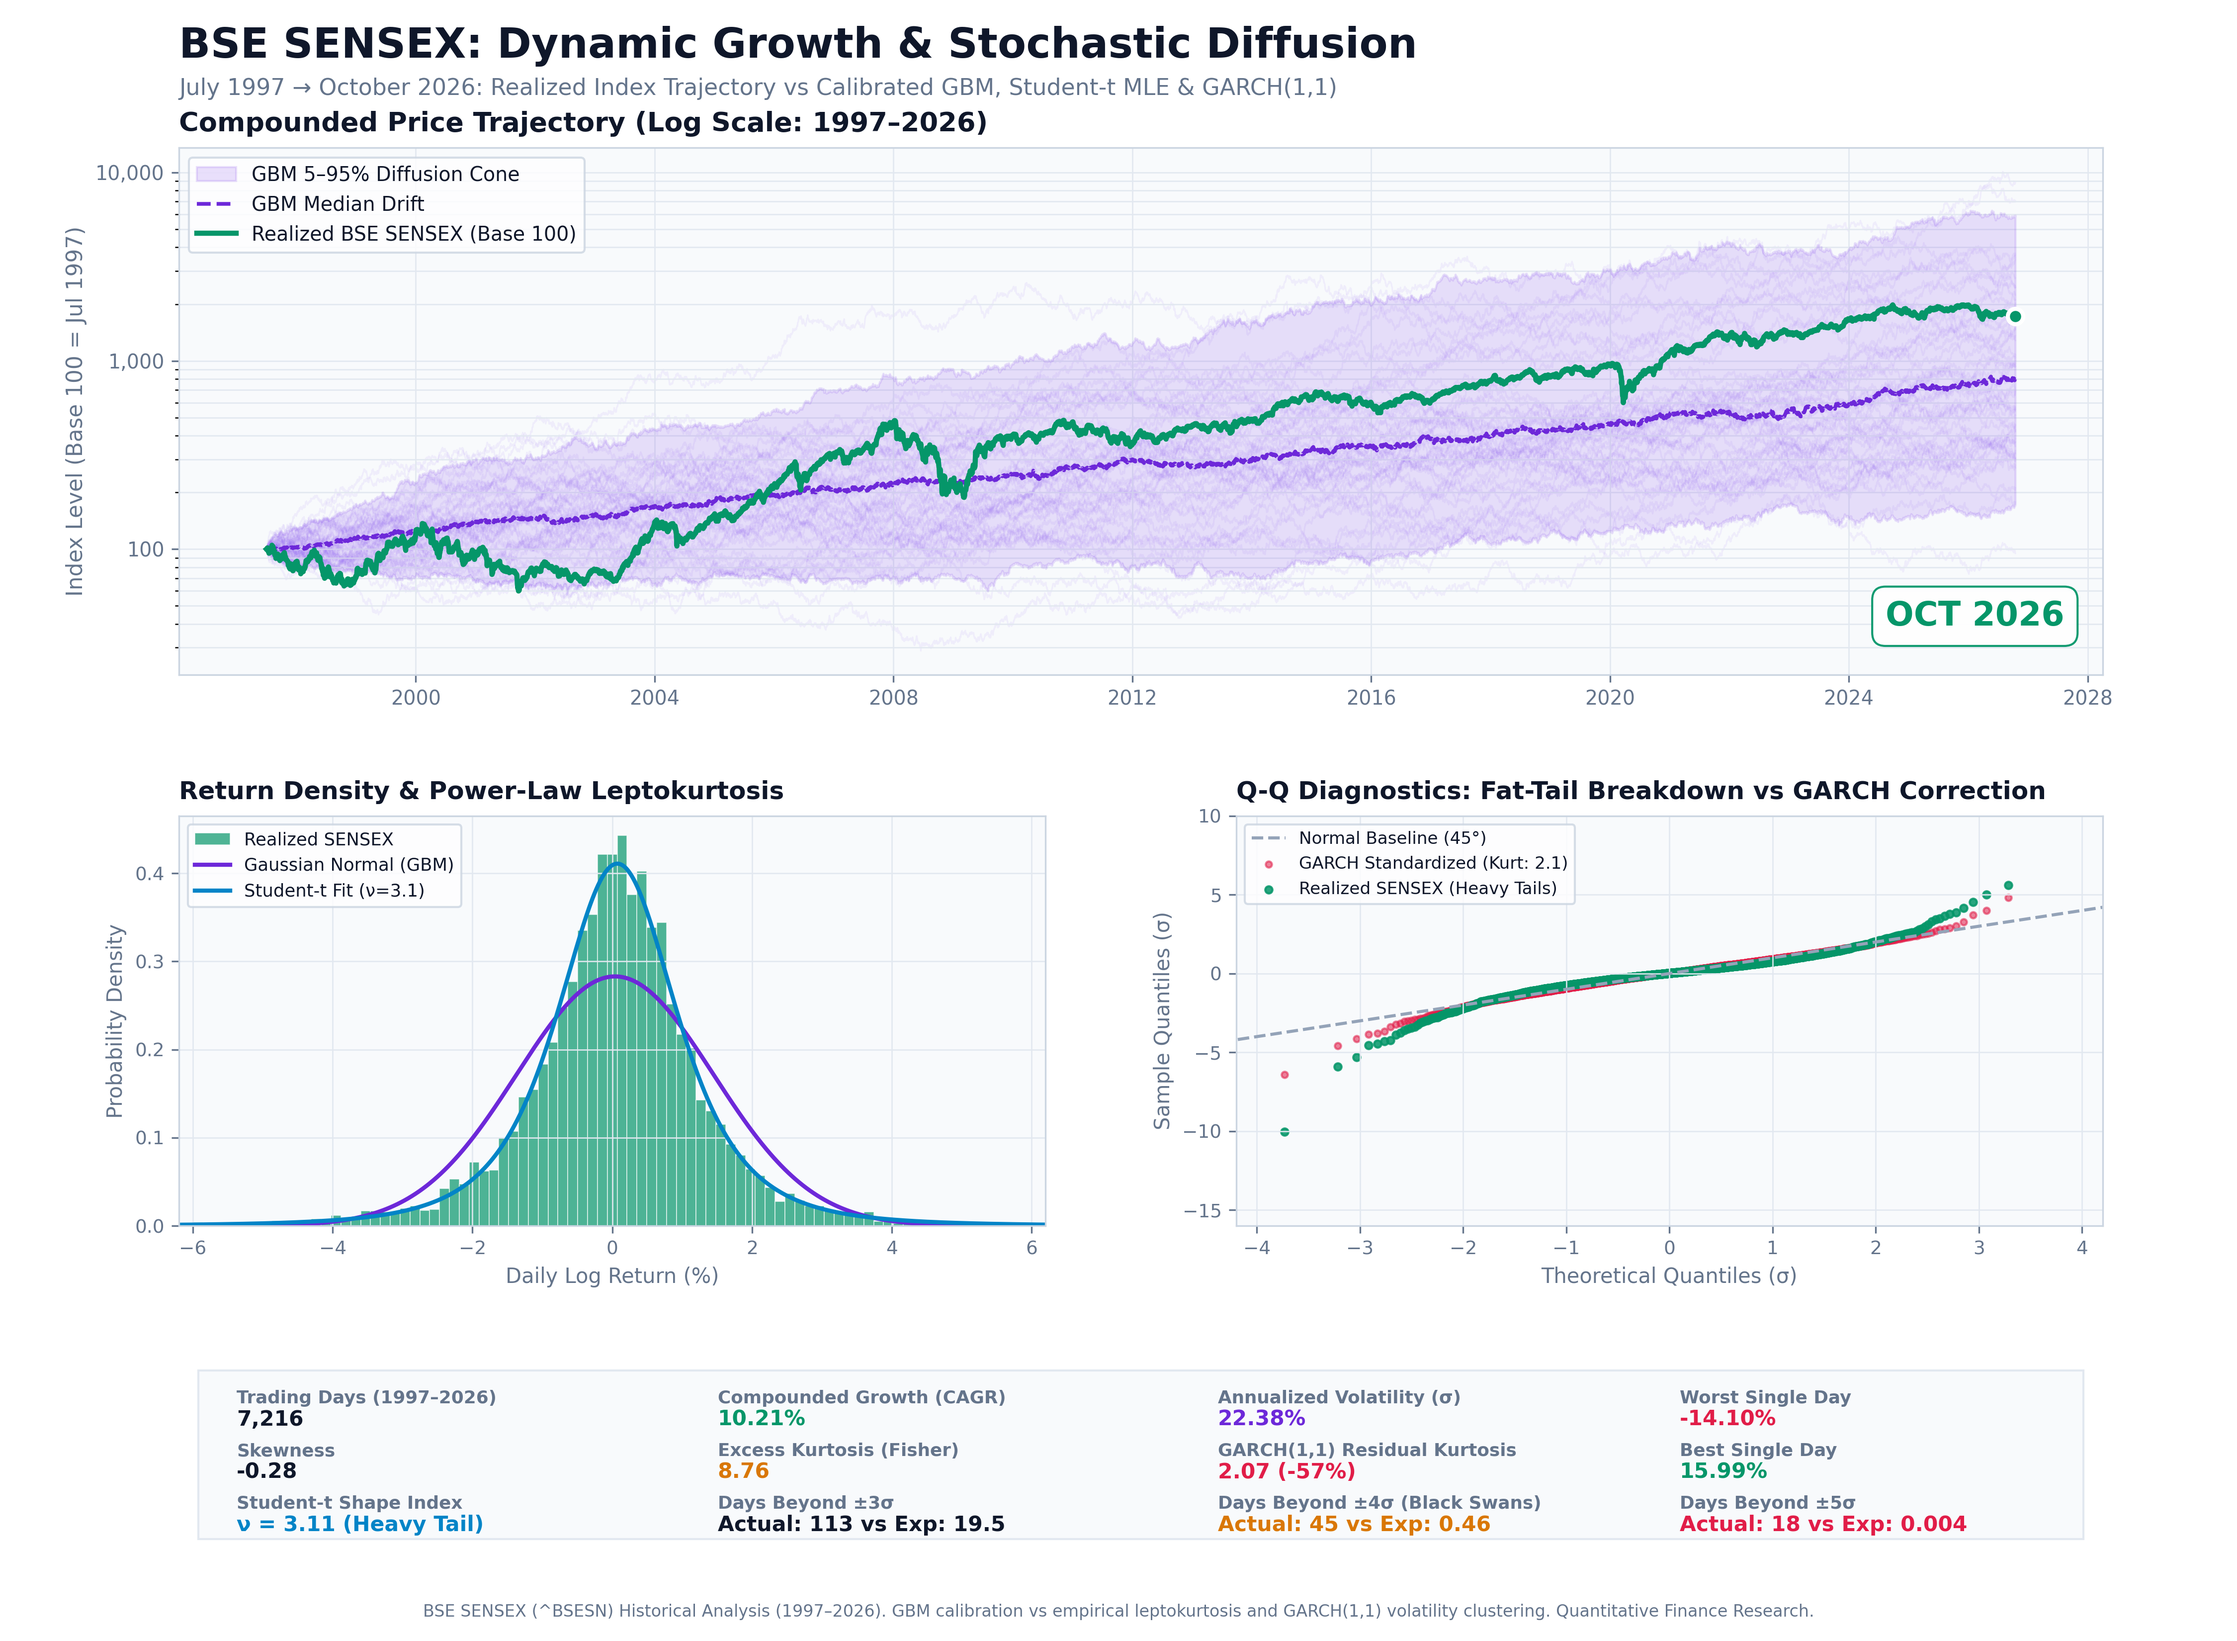
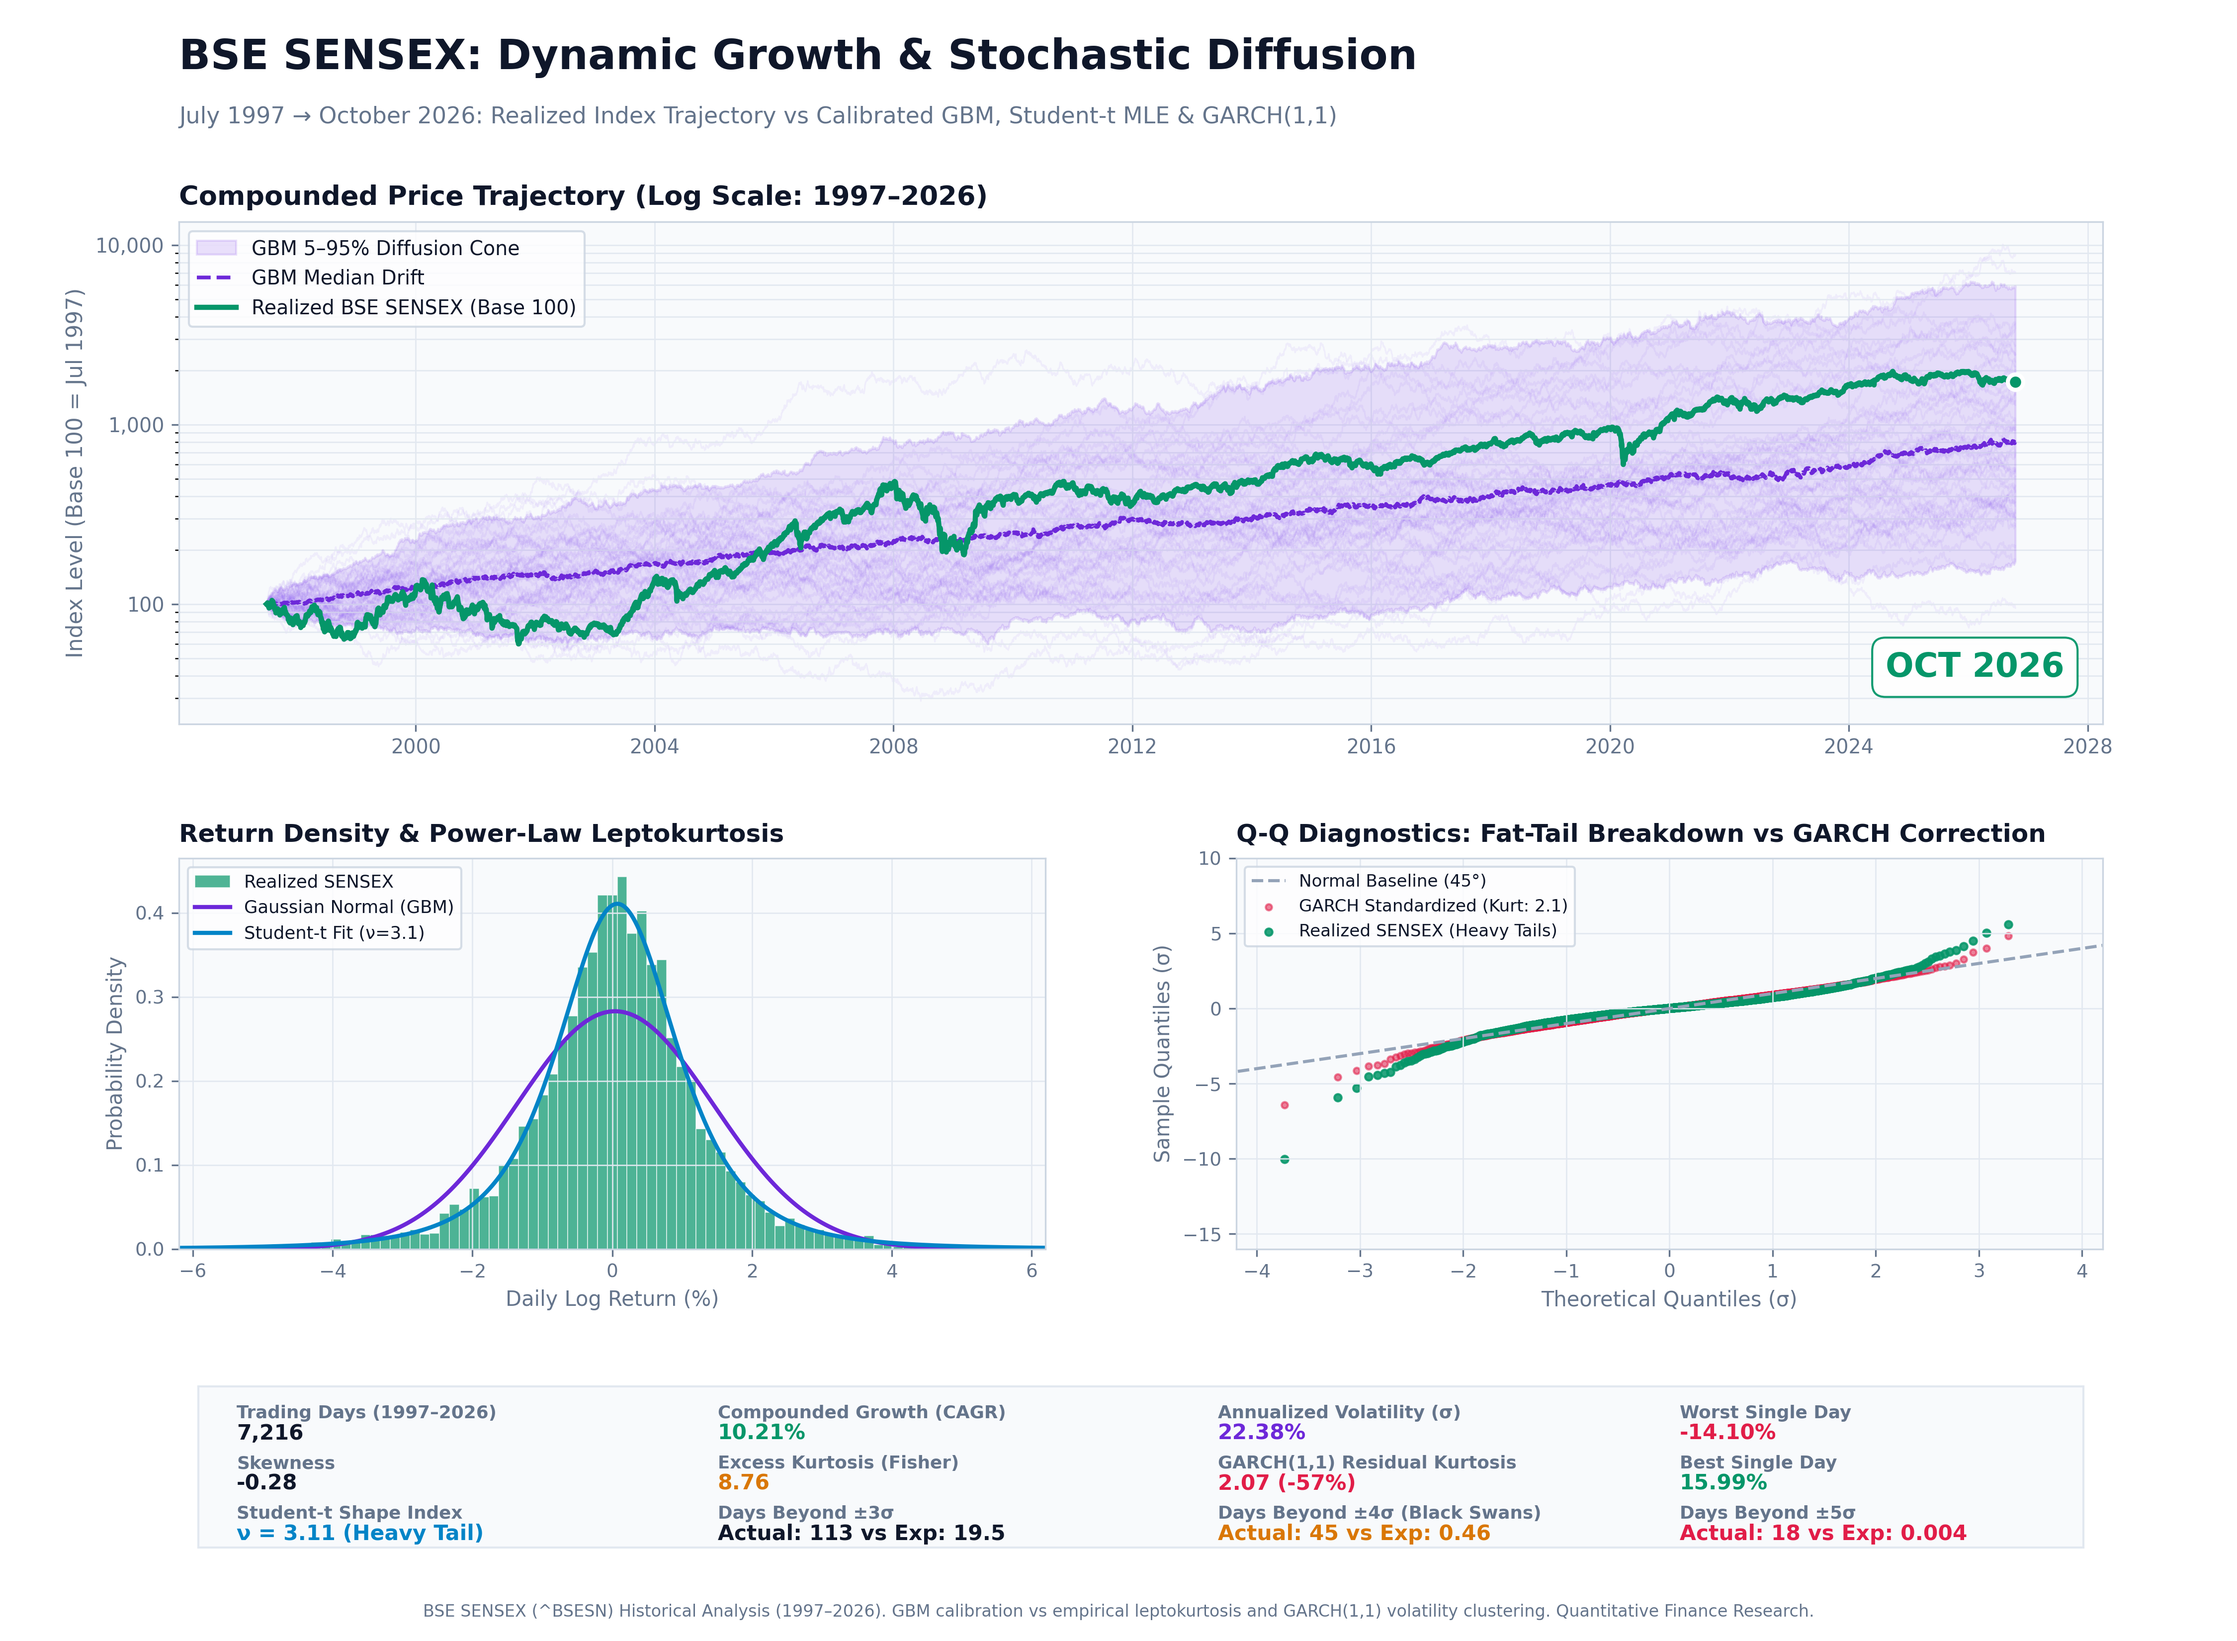
Fix text overlapping between subtitle and subplot title; increase vertical breathing room

diff --git a/generate_animation.py b/generate_animation.py
@@ -61,17 +61,17 @@ def generate_monthly_growth_gif(
         item = timeline[m_idx]
         cur_month_str = item['month']
         
-        fig = plt.figure(figsize=(14, 9), facecolor=c_bg)
+        fig = plt.figure(figsize=(14, 9.2), facecolor=c_bg)
         gs = gridspec.GridSpec(
             nrows=3, ncols=2,
-            height_ratios=[1.4, 0.95, 0.45],
-            hspace=0.35, wspace=0.22,
-            left=0.08, right=0.94, top=0.92, bottom=0.06
+            height_ratios=[1.35, 0.95, 0.42],
+            hspace=0.38, wspace=0.22,
+            left=0.08, right=0.94, top=0.865, bottom=0.055
         )
         
         # Header
-        fig.text(0.08, 0.965, "BSE SENSEX Dynamic Trajectory Growth", fontsize=18, weight='bold', color=c_text)
-        fig.text(0.08, 0.940, f"Empirical Monthly Evolution: July 1997 \u2192 {cur_month_str} vs Calibrated GBM Diffusion", fontsize=10.5, color=c_muted)
+        fig.text(0.08, 0.955, "BSE SENSEX Dynamic Trajectory Growth", fontsize=18, weight='bold', color=c_text)
+        fig.text(0.08, 0.922, f"Empirical Monthly Evolution: July 1997 \u2192 {cur_month_str} vs Calibrated GBM Diffusion", fontsize=10.5, color=c_muted)
         
         # 1. Main Hero Panel: Monthly Price Growth (Log Scale)
         ax_main = fig.add_subplot(gs[0, :], facecolor=c_card)

diff --git a/generate_publication_charts.py b/generate_publication_charts.py
@@ -63,8 +63,8 @@ def build_publication_figure(save_path: str = "sensex_gbm_fat_tails.png"):
         wspace=0.22,
         left=0.08,
         right=0.94,
-        top=0.91,
-        bottom=0.06
+        top=0.865,
+        bottom=0.055
     )
     
     # White Mode Color System
@@ -80,12 +80,12 @@ def build_publication_figure(save_path: str = "sensex_gbm_fat_tails.png"):
     
     # Header Titles
     fig.text(
-        0.08, 0.965,
+        0.08, 0.958,
         "BSE SENSEX: Dynamic Growth & Stochastic Diffusion",
         fontsize=20, weight='bold', color=c_text, ha='left'
     )
     fig.text(
-        0.08, 0.942,
+        0.08, 0.925,
         "July 1997 \u2192 October 2026: Realized Index Trajectory vs Calibrated GBM, Student-t MLE & GARCH(1,1)",
         fontsize=11, color=c_muted, ha='left'
     )
